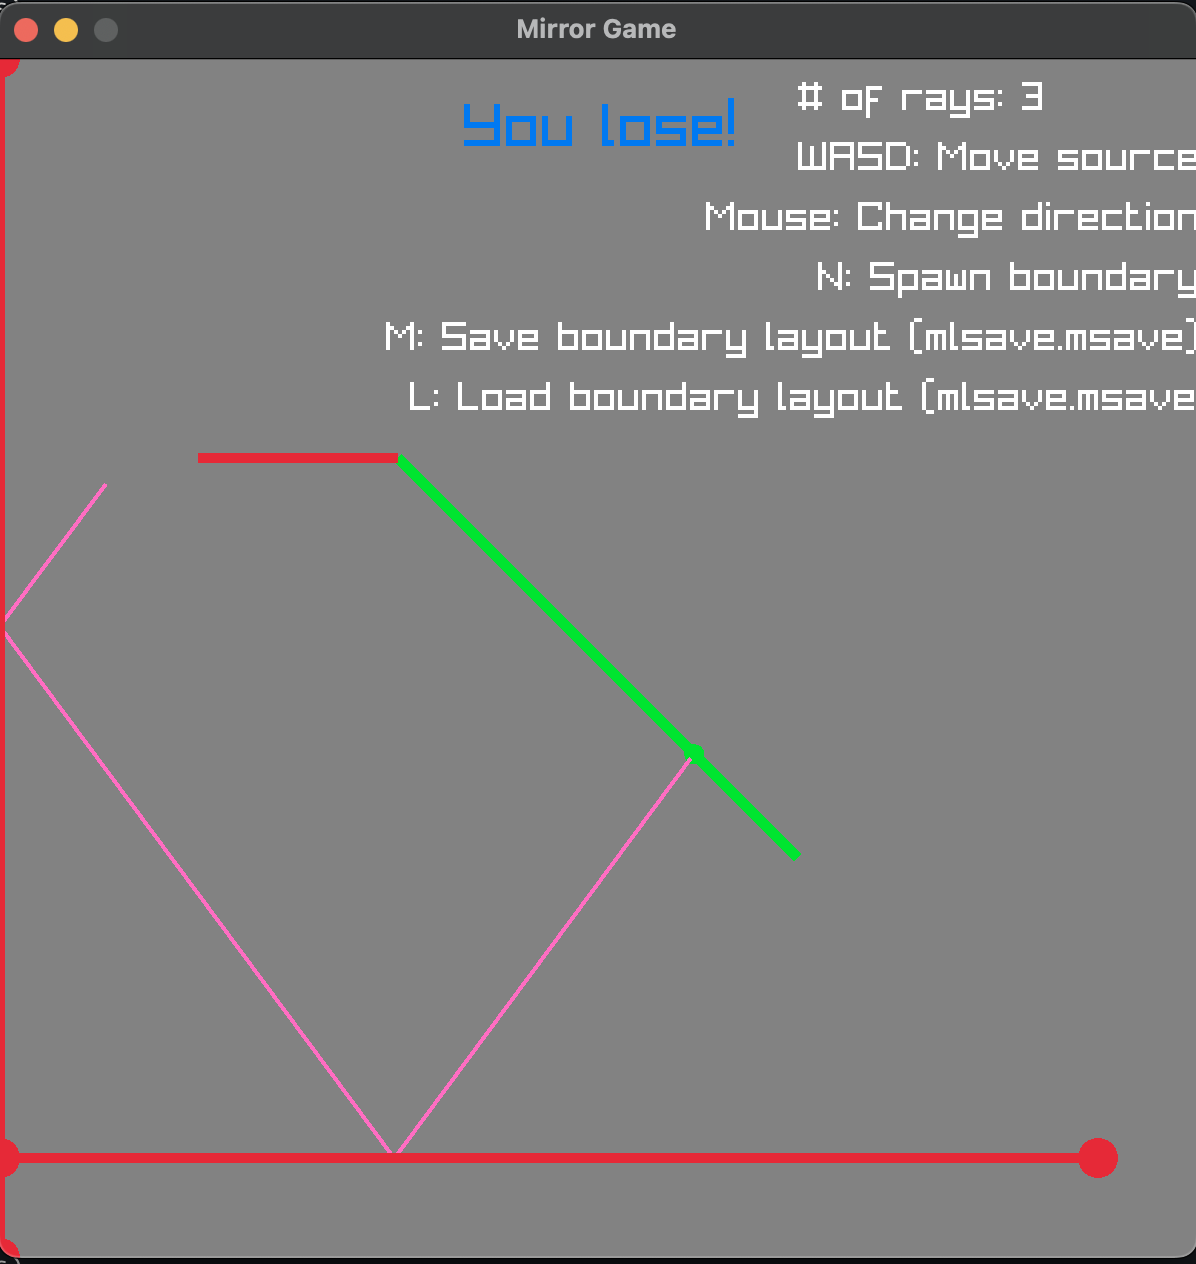
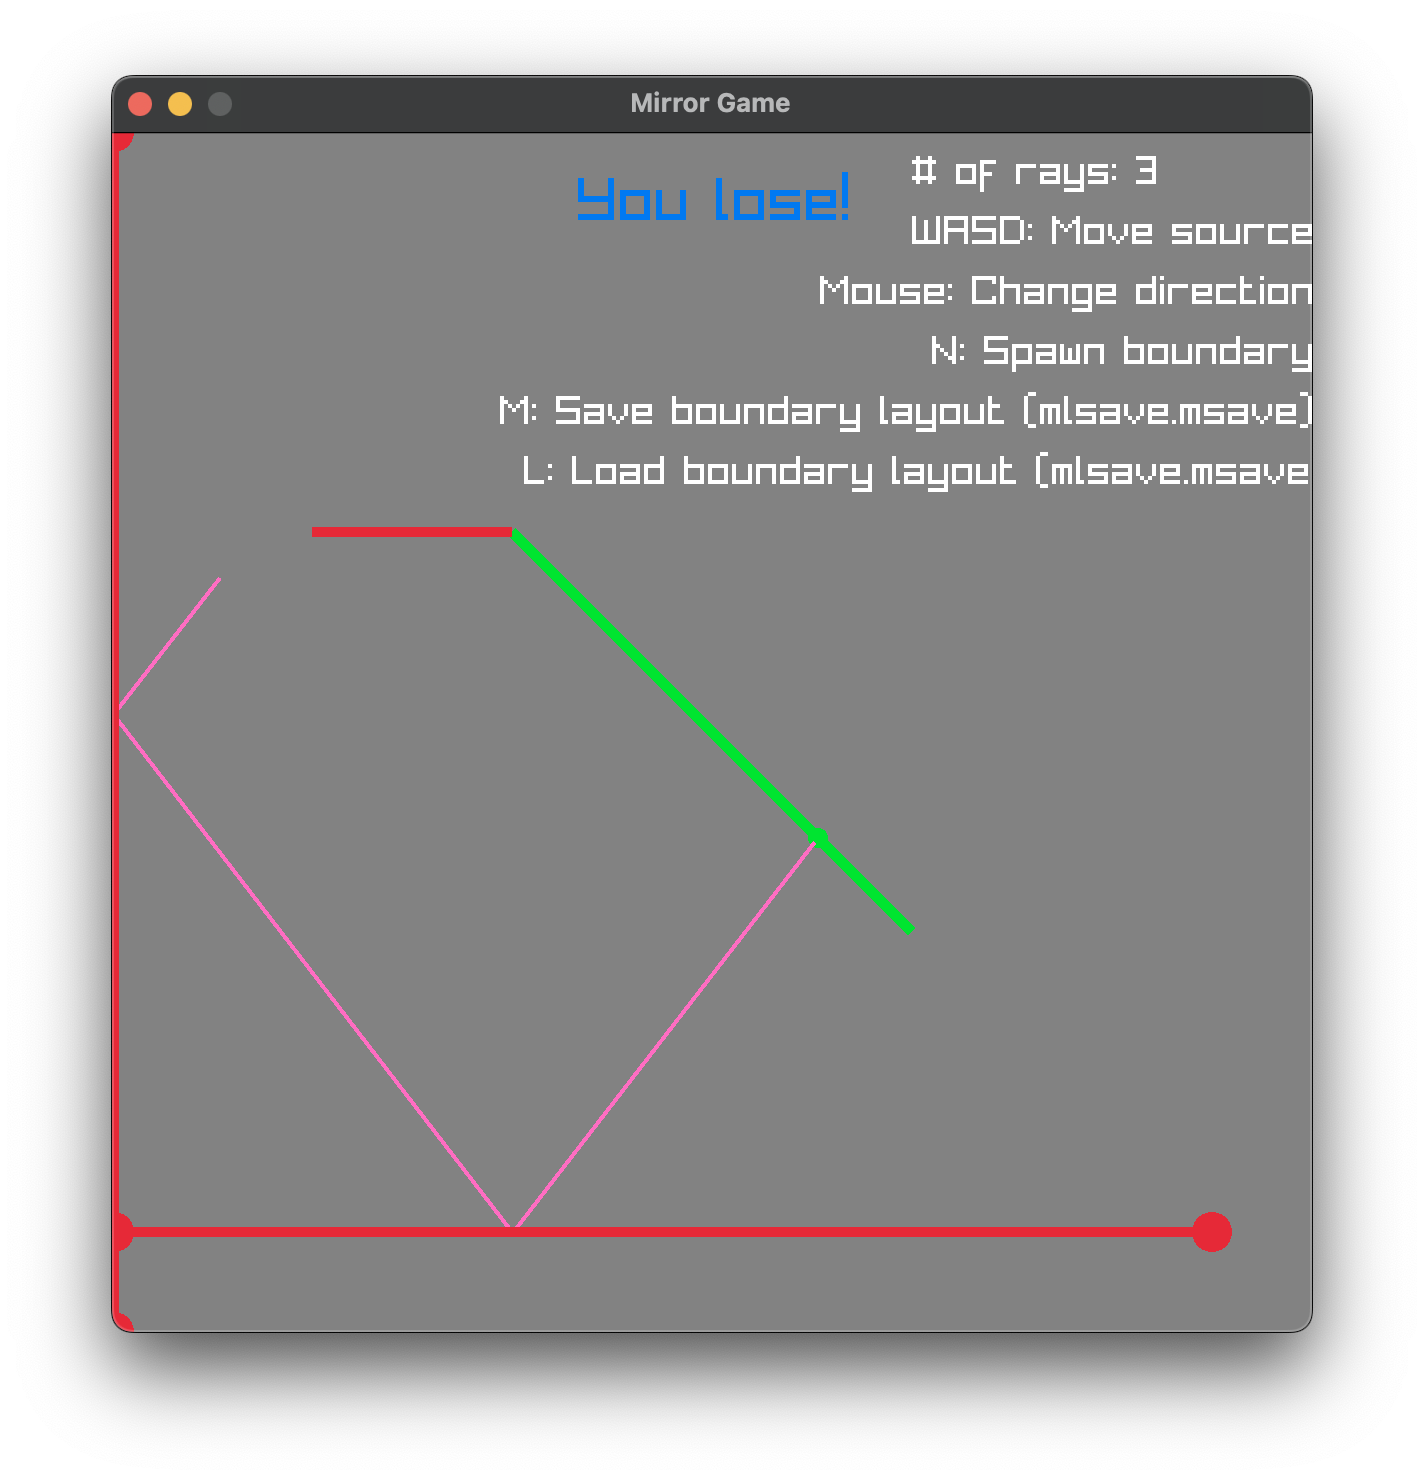
Improved image of mirror_lib in action

diff --git a/index.html b/index.html
@@ -12515,7 +12515,7 @@ var $author$project$HomePage$meAsADeveloper = function () {
 				])));
 }();
 var $author$project$HomePage$fireflylib_description = 'This project is a fully code driven game library that has the ability to faciliate very simple games';
-var $author$project$HomePage$opengl_engine_description = 'This project is an attempt at making a somewhat functional game engine using opengl and a variety of other libraries';
+var $author$project$HomePage$mirror_lib_description = 'This project was inspired by TheCodingTrain on YouTube. It is a \"simulation\" of how light might bounce off mirrors';
 var $mdgriffith$elm_ui$Internal$Model$CenterY = {$: 'CenterY'};
 var $mdgriffith$elm_ui$Element$centerY = $mdgriffith$elm_ui$Internal$Model$AlignY($mdgriffith$elm_ui$Internal$Model$CenterY);
 var $mdgriffith$elm_ui$Internal$Flag$overflow = $mdgriffith$elm_ui$Internal$Flag$flag(20);
@@ -12748,11 +12748,11 @@ var $author$project$HomePage$projects = A2(
 			[
 				A5(
 				$author$project$HomePage$project,
-				'OpenGL Engine',
-				'2020-2022',
-				'https://github.com/rfmineguy/opengl-engine',
-				_Utils_Tuple3($author$project$HomePage$asset_dir + 'opengl-engine-display.png', 300, 300),
-				$author$project$HomePage$opengl_engine_description),
+				'MirrorLib',
+				'2021-2022',
+				'https://github.com/rfmineguy/mirror-lib',
+				_Utils_Tuple3($author$project$HomePage$asset_dir + 'mirror_lib.png', 300, 300),
+				$author$project$HomePage$mirror_lib_description),
 				A5(
 				$author$project$HomePage$project,
 				'Firefly Lib',
